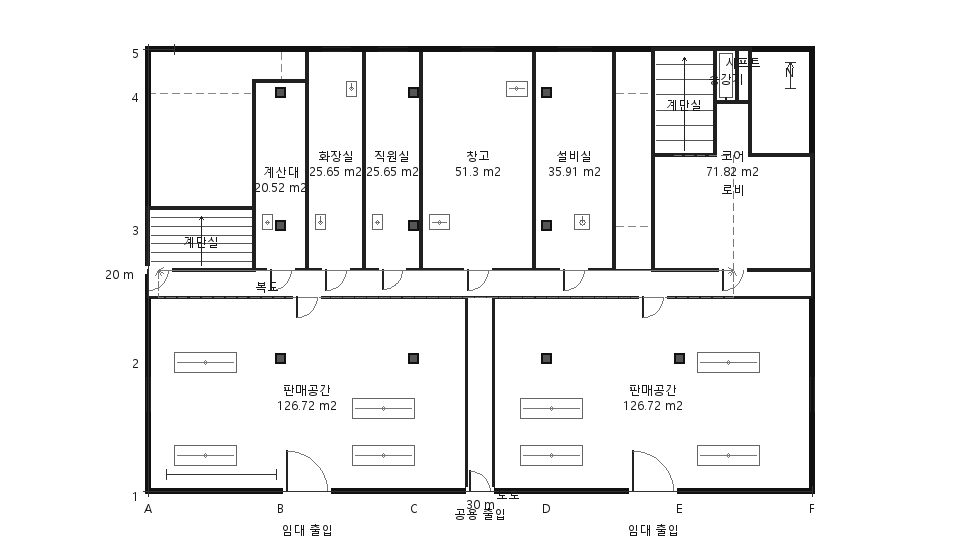
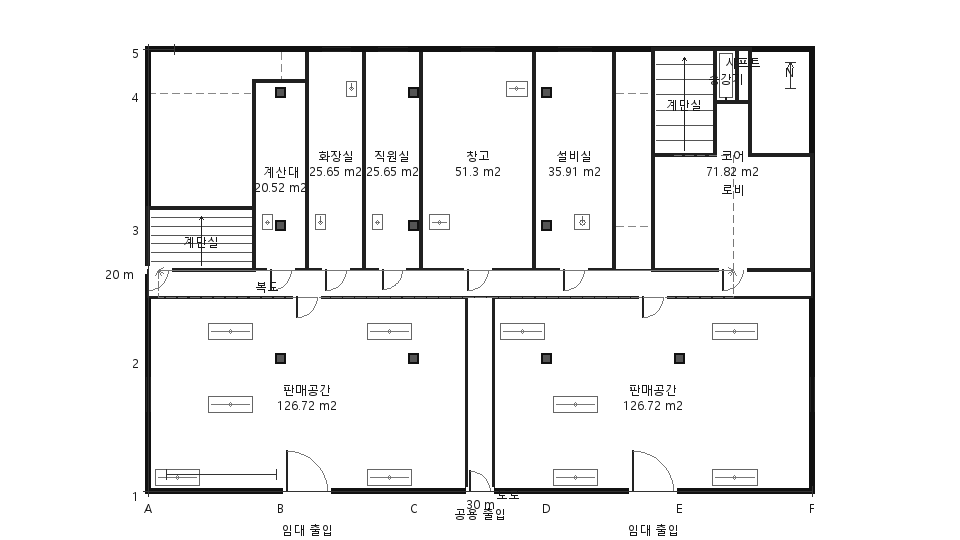
docs(plan): refresh fixture-density reviews

diff --git a/docs/plan-alternatives-architectural/30x20/alternative-a/floor_001/alternatives-30x20-14bd8ddc58a17fef-f1.html b/docs/plan-alternatives-architectural/30x20/alternative-a/floor_001/alternatives-30x20-14bd8ddc58a17fef-f1.html
@@ -54,7 +54,7 @@
         <h2>Render Completeness</h2>
         <table id="render-completeness">
           <thead><tr><th scope="col">Layer</th><th scope="col">Modeled</th><th scope="col">SVG</th><th scope="col">PNG</th></tr></thead>
-          <tbody><tr><th scope="row">grid</th><td>11</td><td>11</td><td>11</td></tr><tr><th scope="row">rooms</th><td>9</td><td>9</td><td>9</td></tr><tr><th scope="row">circulation</th><td>2</td><td>2</td><td>2</td></tr><tr><th scope="row">core</th><td>5</td><td>5</td><td>5</td></tr><tr><th scope="row">structure</th><td>10</td><td>10</td><td>10</td></tr><tr><th scope="row">envelope</th><td>9</td><td>9</td><td>9</td></tr><tr><th scope="row">door-openings</th><td>10</td><td>10</td><td>10</td></tr><tr><th scope="row">furniture</th><td>12</td><td>12</td><td>12</td></tr><tr><th scope="row">fixtures</th><td>3</td><td>3</td><td>3</td></tr><tr><th scope="row">egress</th><td>16</td><td>16</td><td>16</td></tr><tr><th scope="row">dimensions</th><td>6</td><td>6</td><td>6</td></tr><tr><th scope="row">text-labels</th><td>22</td><td>22</td><td>22</td></tr></tbody>
+          <tbody><tr><th scope="row">grid</th><td>11</td><td>11</td><td>11</td></tr><tr><th scope="row">rooms</th><td>9</td><td>9</td><td>9</td></tr><tr><th scope="row">circulation</th><td>2</td><td>2</td><td>2</td></tr><tr><th scope="row">core</th><td>5</td><td>5</td><td>5</td></tr><tr><th scope="row">structure</th><td>10</td><td>10</td><td>10</td></tr><tr><th scope="row">envelope</th><td>9</td><td>9</td><td>9</td></tr><tr><th scope="row">door-openings</th><td>10</td><td>10</td><td>10</td></tr><tr><th scope="row">furniture</th><td>14</td><td>14</td><td>14</td></tr><tr><th scope="row">fixtures</th><td>3</td><td>3</td><td>3</td></tr><tr><th scope="row">egress</th><td>16</td><td>16</td><td>16</td></tr><tr><th scope="row">dimensions</th><td>6</td><td>6</td><td>6</td></tr><tr><th scope="row">text-labels</th><td>22</td><td>22</td><td>22</td></tr></tbody>
         </table>
         <p><a href="alternatives-30x20-14bd8ddc58a17fef-f1.png">PNG</a></p>
         <p><a href="alternatives-30x20-14bd8ddc58a17fef-f1.review.json">Review JSON</a></p>

diff --git a/docs/plan-alternatives-architectural/30x20/alternative-b/floor_001/alternatives-30x20-14bd8ddc58a17fef-f1.html b/docs/plan-alternatives-architectural/30x20/alternative-b/floor_001/alternatives-30x20-14bd8ddc58a17fef-f1.html
@@ -54,7 +54,7 @@
         <h2>Render Completeness</h2>
         <table id="render-completeness">
           <thead><tr><th scope="col">Layer</th><th scope="col">Modeled</th><th scope="col">SVG</th><th scope="col">PNG</th></tr></thead>
-          <tbody><tr><th scope="row">grid</th><td>11</td><td>11</td><td>11</td></tr><tr><th scope="row">rooms</th><td>9</td><td>9</td><td>9</td></tr><tr><th scope="row">circulation</th><td>2</td><td>2</td><td>2</td></tr><tr><th scope="row">core</th><td>5</td><td>5</td><td>5</td></tr><tr><th scope="row">structure</th><td>8</td><td>8</td><td>8</td></tr><tr><th scope="row">envelope</th><td>9</td><td>9</td><td>9</td></tr><tr><th scope="row">door-openings</th><td>10</td><td>10</td><td>10</td></tr><tr><th scope="row">furniture</th><td>12</td><td>12</td><td>12</td></tr><tr><th scope="row">fixtures</th><td>3</td><td>3</td><td>3</td></tr><tr><th scope="row">egress</th><td>16</td><td>16</td><td>16</td></tr><tr><th scope="row">dimensions</th><td>6</td><td>6</td><td>6</td></tr><tr><th scope="row">text-labels</th><td>22</td><td>22</td><td>22</td></tr></tbody>
+          <tbody><tr><th scope="row">grid</th><td>11</td><td>11</td><td>11</td></tr><tr><th scope="row">rooms</th><td>9</td><td>9</td><td>9</td></tr><tr><th scope="row">circulation</th><td>2</td><td>2</td><td>2</td></tr><tr><th scope="row">core</th><td>5</td><td>5</td><td>5</td></tr><tr><th scope="row">structure</th><td>8</td><td>8</td><td>8</td></tr><tr><th scope="row">envelope</th><td>9</td><td>9</td><td>9</td></tr><tr><th scope="row">door-openings</th><td>10</td><td>10</td><td>10</td></tr><tr><th scope="row">furniture</th><td>14</td><td>14</td><td>14</td></tr><tr><th scope="row">fixtures</th><td>3</td><td>3</td><td>3</td></tr><tr><th scope="row">egress</th><td>16</td><td>16</td><td>16</td></tr><tr><th scope="row">dimensions</th><td>6</td><td>6</td><td>6</td></tr><tr><th scope="row">text-labels</th><td>22</td><td>22</td><td>22</td></tr></tbody>
         </table>
         <p><a href="alternatives-30x20-14bd8ddc58a17fef-f1.png">PNG</a></p>
         <p><a href="alternatives-30x20-14bd8ddc58a17fef-f1.review.json">Review JSON</a></p>

diff --git a/docs/plan-alternatives-architectural/30x20/alternative-c/floor_001/alternatives-30x20-14bd8ddc58a17fef-f1.html b/docs/plan-alternatives-architectural/30x20/alternative-c/floor_001/alternatives-30x20-14bd8ddc58a17fef-f1.html
@@ -54,7 +54,7 @@
         <h2>Render Completeness</h2>
         <table id="render-completeness">
           <thead><tr><th scope="col">Layer</th><th scope="col">Modeled</th><th scope="col">SVG</th><th scope="col">PNG</th></tr></thead>
-          <tbody><tr><th scope="row">grid</th><td>11</td><td>11</td><td>11</td></tr><tr><th scope="row">rooms</th><td>9</td><td>9</td><td>9</td></tr><tr><th scope="row">circulation</th><td>2</td><td>2</td><td>2</td></tr><tr><th scope="row">core</th><td>5</td><td>5</td><td>5</td></tr><tr><th scope="row">structure</th><td>9</td><td>9</td><td>9</td></tr><tr><th scope="row">envelope</th><td>9</td><td>9</td><td>9</td></tr><tr><th scope="row">door-openings</th><td>10</td><td>10</td><td>10</td></tr><tr><th scope="row">furniture</th><td>10</td><td>10</td><td>10</td></tr><tr><th scope="row">fixtures</th><td>3</td><td>3</td><td>3</td></tr><tr><th scope="row">egress</th><td>16</td><td>16</td><td>16</td></tr><tr><th scope="row">dimensions</th><td>6</td><td>6</td><td>6</td></tr><tr><th scope="row">text-labels</th><td>22</td><td>22</td><td>22</td></tr></tbody>
+          <tbody><tr><th scope="row">grid</th><td>11</td><td>11</td><td>11</td></tr><tr><th scope="row">rooms</th><td>9</td><td>9</td><td>9</td></tr><tr><th scope="row">circulation</th><td>2</td><td>2</td><td>2</td></tr><tr><th scope="row">core</th><td>5</td><td>5</td><td>5</td></tr><tr><th scope="row">structure</th><td>9</td><td>9</td><td>9</td></tr><tr><th scope="row">envelope</th><td>9</td><td>9</td><td>9</td></tr><tr><th scope="row">door-openings</th><td>10</td><td>10</td><td>10</td></tr><tr><th scope="row">furniture</th><td>12</td><td>12</td><td>12</td></tr><tr><th scope="row">fixtures</th><td>3</td><td>3</td><td>3</td></tr><tr><th scope="row">egress</th><td>16</td><td>16</td><td>16</td></tr><tr><th scope="row">dimensions</th><td>6</td><td>6</td><td>6</td></tr><tr><th scope="row">text-labels</th><td>22</td><td>22</td><td>22</td></tr></tbody>
         </table>
         <p><a href="alternatives-30x20-14bd8ddc58a17fef-f1.png">PNG</a></p>
         <p><a href="alternatives-30x20-14bd8ddc58a17fef-f1.review.json">Review JSON</a></p>

diff --git a/docs/plan-alternatives-architectural/20x12/alternative-c/floor_001/alternatives-20x12-7cad349c48223a75-f1.html b/docs/plan-alternatives-architectural/20x12/alternative-c/floor_001/alternatives-20x12-7cad349c48223a75-f1.html
@@ -54,7 +54,7 @@
         <h2>Render Completeness</h2>
         <table id="render-completeness">
           <thead><tr><th scope="col">Layer</th><th scope="col">Modeled</th><th scope="col">SVG</th><th scope="col">PNG</th></tr></thead>
-          <tbody><tr><th scope="row">grid</th><td>8</td><td>8</td><td>8</td></tr><tr><th scope="row">rooms</th><td>9</td><td>9</td><td>9</td></tr><tr><th scope="row">circulation</th><td>2</td><td>2</td><td>2</td></tr><tr><th scope="row">core</th><td>5</td><td>5</td><td>5</td></tr><tr><th scope="row">structure</th><td>2</td><td>2</td><td>2</td></tr><tr><th scope="row">envelope</th><td>10</td><td>10</td><td>10</td></tr><tr><th scope="row">door-openings</th><td>10</td><td>10</td><td>10</td></tr><tr><th scope="row">furniture</th><td>6</td><td>6</td><td>6</td></tr><tr><th scope="row">fixtures</th><td>3</td><td>3</td><td>3</td></tr><tr><th scope="row">egress</th><td>16</td><td>16</td><td>16</td></tr><tr><th scope="row">dimensions</th><td>6</td><td>6</td><td>6</td></tr><tr><th scope="row">text-labels</th><td>22</td><td>22</td><td>22</td></tr></tbody>
+          <tbody><tr><th scope="row">grid</th><td>8</td><td>8</td><td>8</td></tr><tr><th scope="row">rooms</th><td>9</td><td>9</td><td>9</td></tr><tr><th scope="row">circulation</th><td>2</td><td>2</td><td>2</td></tr><tr><th scope="row">core</th><td>5</td><td>5</td><td>5</td></tr><tr><th scope="row">structure</th><td>2</td><td>2</td><td>2</td></tr><tr><th scope="row">envelope</th><td>10</td><td>10</td><td>10</td></tr><tr><th scope="row">door-openings</th><td>10</td><td>10</td><td>10</td></tr><tr><th scope="row">furniture</th><td>8</td><td>8</td><td>8</td></tr><tr><th scope="row">fixtures</th><td>3</td><td>3</td><td>3</td></tr><tr><th scope="row">egress</th><td>16</td><td>16</td><td>16</td></tr><tr><th scope="row">dimensions</th><td>6</td><td>6</td><td>6</td></tr><tr><th scope="row">text-labels</th><td>22</td><td>22</td><td>22</td></tr></tbody>
         </table>
         <p><a href="alternatives-20x12-7cad349c48223a75-f1.png">PNG</a></p>
         <p><a href="alternatives-20x12-7cad349c48223a75-f1.review.json">Review JSON</a></p>

diff --git a/docs/plan-alternatives-architectural/30x12/alternative-a/floor_001/alternatives-30x12-7f2069b92fbfa3c4-f1.html b/docs/plan-alternatives-architectural/30x12/alternative-a/floor_001/alternatives-30x12-7f2069b92fbfa3c4-f1.html
@@ -54,7 +54,7 @@
         <h2>Render Completeness</h2>
         <table id="render-completeness">
           <thead><tr><th scope="col">Layer</th><th scope="col">Modeled</th><th scope="col">SVG</th><th scope="col">PNG</th></tr></thead>
-          <tbody><tr><th scope="row">grid</th><td>9</td><td>9</td><td>9</td></tr><tr><th scope="row">rooms</th><td>9</td><td>9</td><td>9</td></tr><tr><th scope="row">circulation</th><td>2</td><td>2</td><td>2</td></tr><tr><th scope="row">core</th><td>5</td><td>5</td><td>5</td></tr><tr><th scope="row">structure</th><td>8</td><td>8</td><td>8</td></tr><tr><th scope="row">envelope</th><td>9</td><td>9</td><td>9</td></tr><tr><th scope="row">door-openings</th><td>10</td><td>10</td><td>10</td></tr><tr><th scope="row">furniture</th><td>8</td><td>8</td><td>8</td></tr><tr><th scope="row">fixtures</th><td>3</td><td>3</td><td>3</td></tr><tr><th scope="row">egress</th><td>16</td><td>16</td><td>16</td></tr><tr><th scope="row">dimensions</th><td>6</td><td>6</td><td>6</td></tr><tr><th scope="row">text-labels</th><td>22</td><td>22</td><td>22</td></tr></tbody>
+          <tbody><tr><th scope="row">grid</th><td>9</td><td>9</td><td>9</td></tr><tr><th scope="row">rooms</th><td>9</td><td>9</td><td>9</td></tr><tr><th scope="row">circulation</th><td>2</td><td>2</td><td>2</td></tr><tr><th scope="row">core</th><td>5</td><td>5</td><td>5</td></tr><tr><th scope="row">structure</th><td>8</td><td>8</td><td>8</td></tr><tr><th scope="row">envelope</th><td>9</td><td>9</td><td>9</td></tr><tr><th scope="row">door-openings</th><td>10</td><td>10</td><td>10</td></tr><tr><th scope="row">furniture</th><td>10</td><td>10</td><td>10</td></tr><tr><th scope="row">fixtures</th><td>3</td><td>3</td><td>3</td></tr><tr><th scope="row">egress</th><td>16</td><td>16</td><td>16</td></tr><tr><th scope="row">dimensions</th><td>6</td><td>6</td><td>6</td></tr><tr><th scope="row">text-labels</th><td>22</td><td>22</td><td>22</td></tr></tbody>
         </table>
         <p><a href="alternatives-30x12-7f2069b92fbfa3c4-f1.png">PNG</a></p>
         <p><a href="alternatives-30x12-7f2069b92fbfa3c4-f1.review.json">Review JSON</a></p>

diff --git a/docs/plan-alternatives-architectural/30x12/alternative-b/floor_001/alternatives-30x12-7f2069b92fbfa3c4-f1.html b/docs/plan-alternatives-architectural/30x12/alternative-b/floor_001/alternatives-30x12-7f2069b92fbfa3c4-f1.html
@@ -54,7 +54,7 @@
         <h2>Render Completeness</h2>
         <table id="render-completeness">
           <thead><tr><th scope="col">Layer</th><th scope="col">Modeled</th><th scope="col">SVG</th><th scope="col">PNG</th></tr></thead>
-          <tbody><tr><th scope="row">grid</th><td>9</td><td>9</td><td>9</td></tr><tr><th scope="row">rooms</th><td>9</td><td>9</td><td>9</td></tr><tr><th scope="row">circulation</th><td>2</td><td>2</td><td>2</td></tr><tr><th scope="row">core</th><td>5</td><td>5</td><td>5</td></tr><tr><th scope="row">structure</th><td>8</td><td>8</td><td>8</td></tr><tr><th scope="row">envelope</th><td>9</td><td>9</td><td>9</td></tr><tr><th scope="row">door-openings</th><td>10</td><td>10</td><td>10</td></tr><tr><th scope="row">furniture</th><td>8</td><td>8</td><td>8</td></tr><tr><th scope="row">fixtures</th><td>3</td><td>3</td><td>3</td></tr><tr><th scope="row">egress</th><td>16</td><td>16</td><td>16</td></tr><tr><th scope="row">dimensions</th><td>6</td><td>6</td><td>6</td></tr><tr><th scope="row">text-labels</th><td>22</td><td>22</td><td>22</td></tr></tbody>
+          <tbody><tr><th scope="row">grid</th><td>9</td><td>9</td><td>9</td></tr><tr><th scope="row">rooms</th><td>9</td><td>9</td><td>9</td></tr><tr><th scope="row">circulation</th><td>2</td><td>2</td><td>2</td></tr><tr><th scope="row">core</th><td>5</td><td>5</td><td>5</td></tr><tr><th scope="row">structure</th><td>8</td><td>8</td><td>8</td></tr><tr><th scope="row">envelope</th><td>9</td><td>9</td><td>9</td></tr><tr><th scope="row">door-openings</th><td>10</td><td>10</td><td>10</td></tr><tr><th scope="row">furniture</th><td>10</td><td>10</td><td>10</td></tr><tr><th scope="row">fixtures</th><td>3</td><td>3</td><td>3</td></tr><tr><th scope="row">egress</th><td>16</td><td>16</td><td>16</td></tr><tr><th scope="row">dimensions</th><td>6</td><td>6</td><td>6</td></tr><tr><th scope="row">text-labels</th><td>22</td><td>22</td><td>22</td></tr></tbody>
         </table>
         <p><a href="alternatives-30x12-7f2069b92fbfa3c4-f1.png">PNG</a></p>
         <p><a href="alternatives-30x12-7f2069b92fbfa3c4-f1.review.json">Review JSON</a></p>
